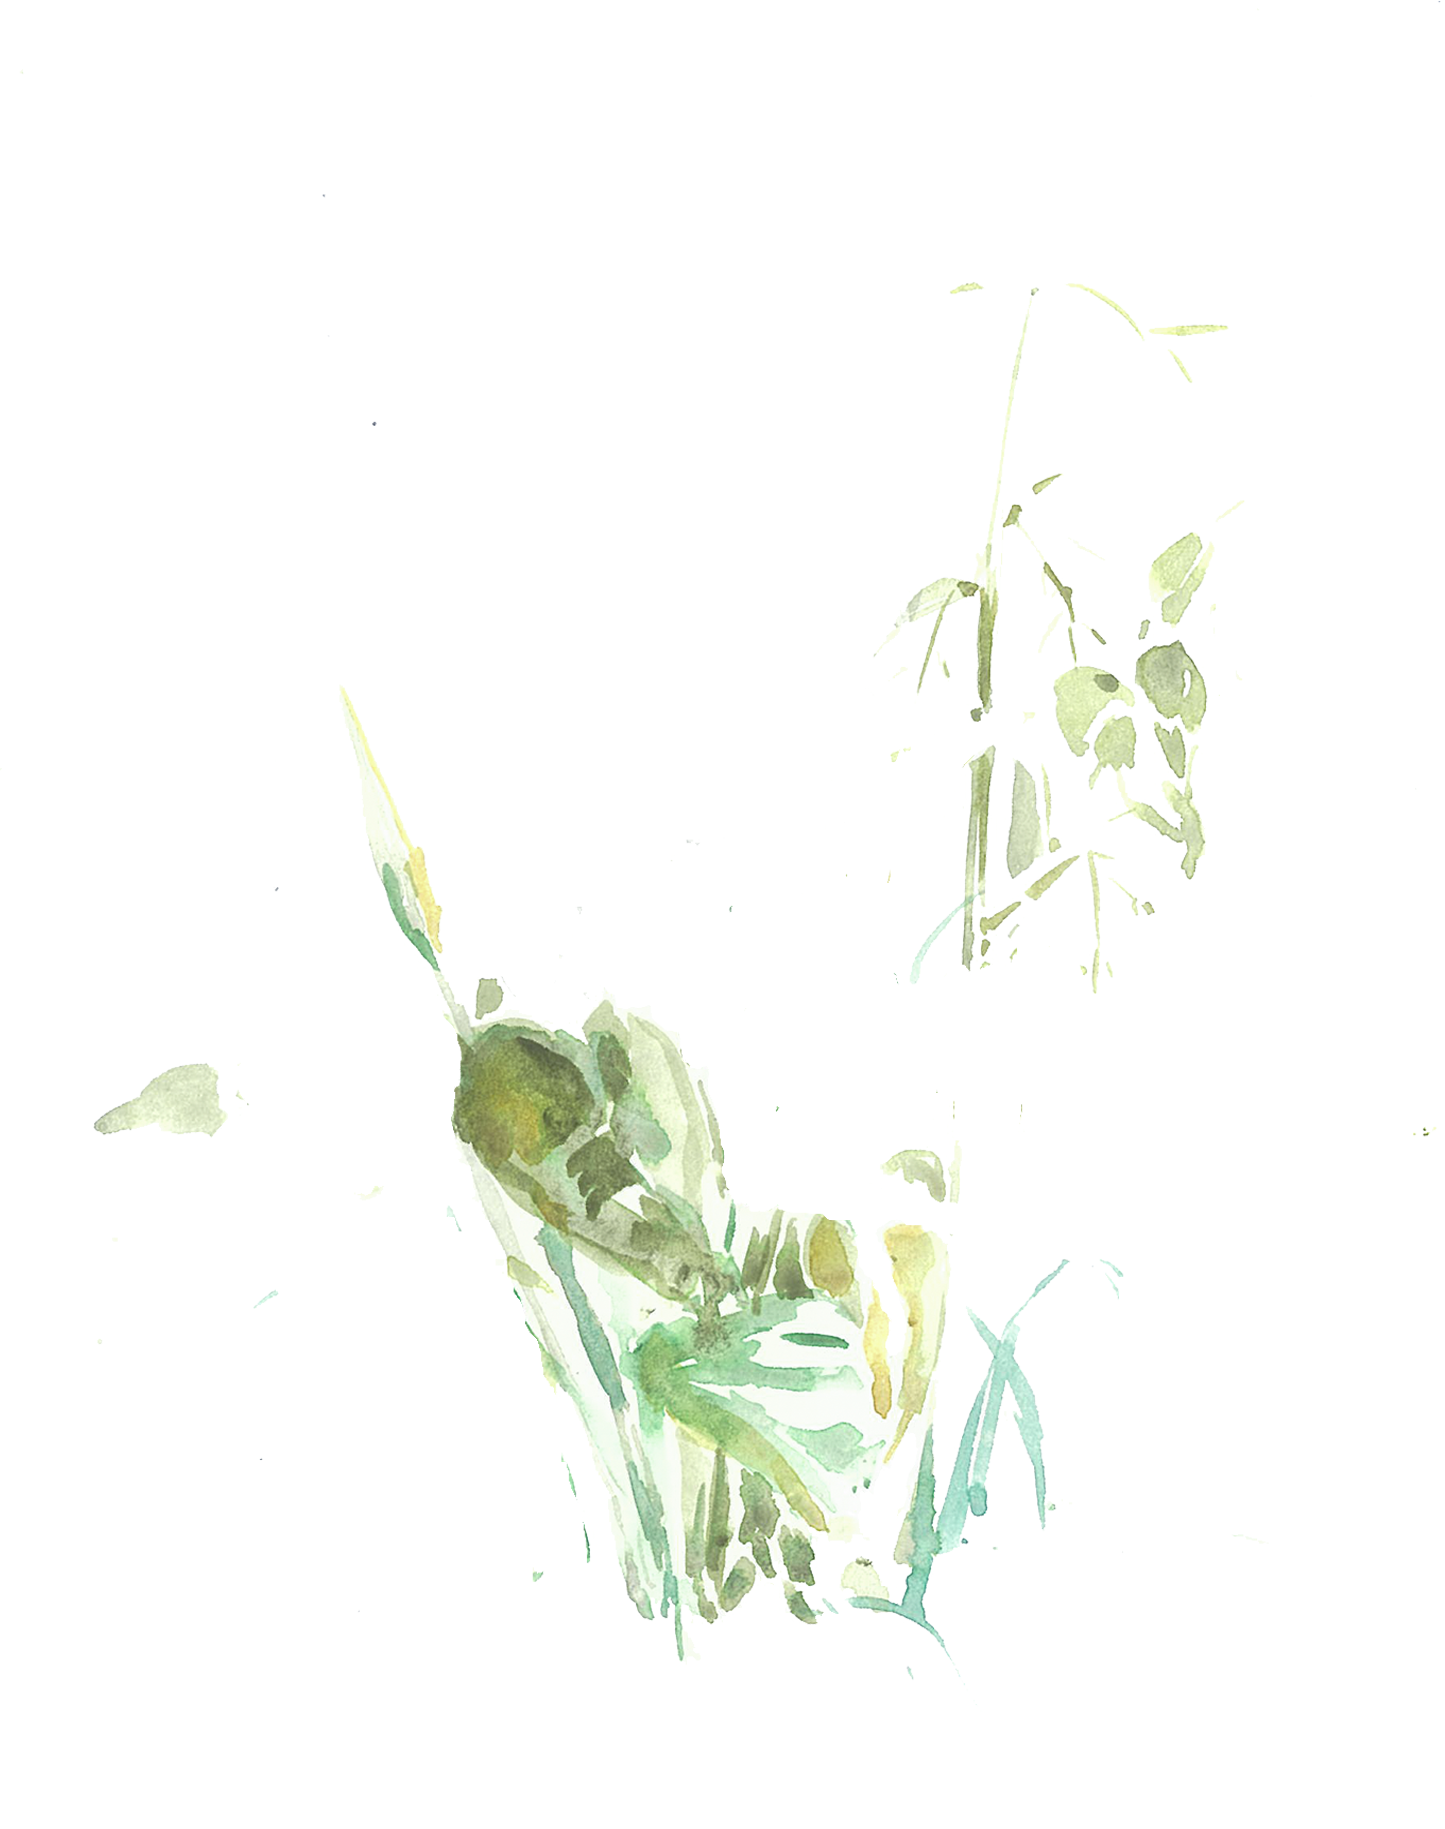
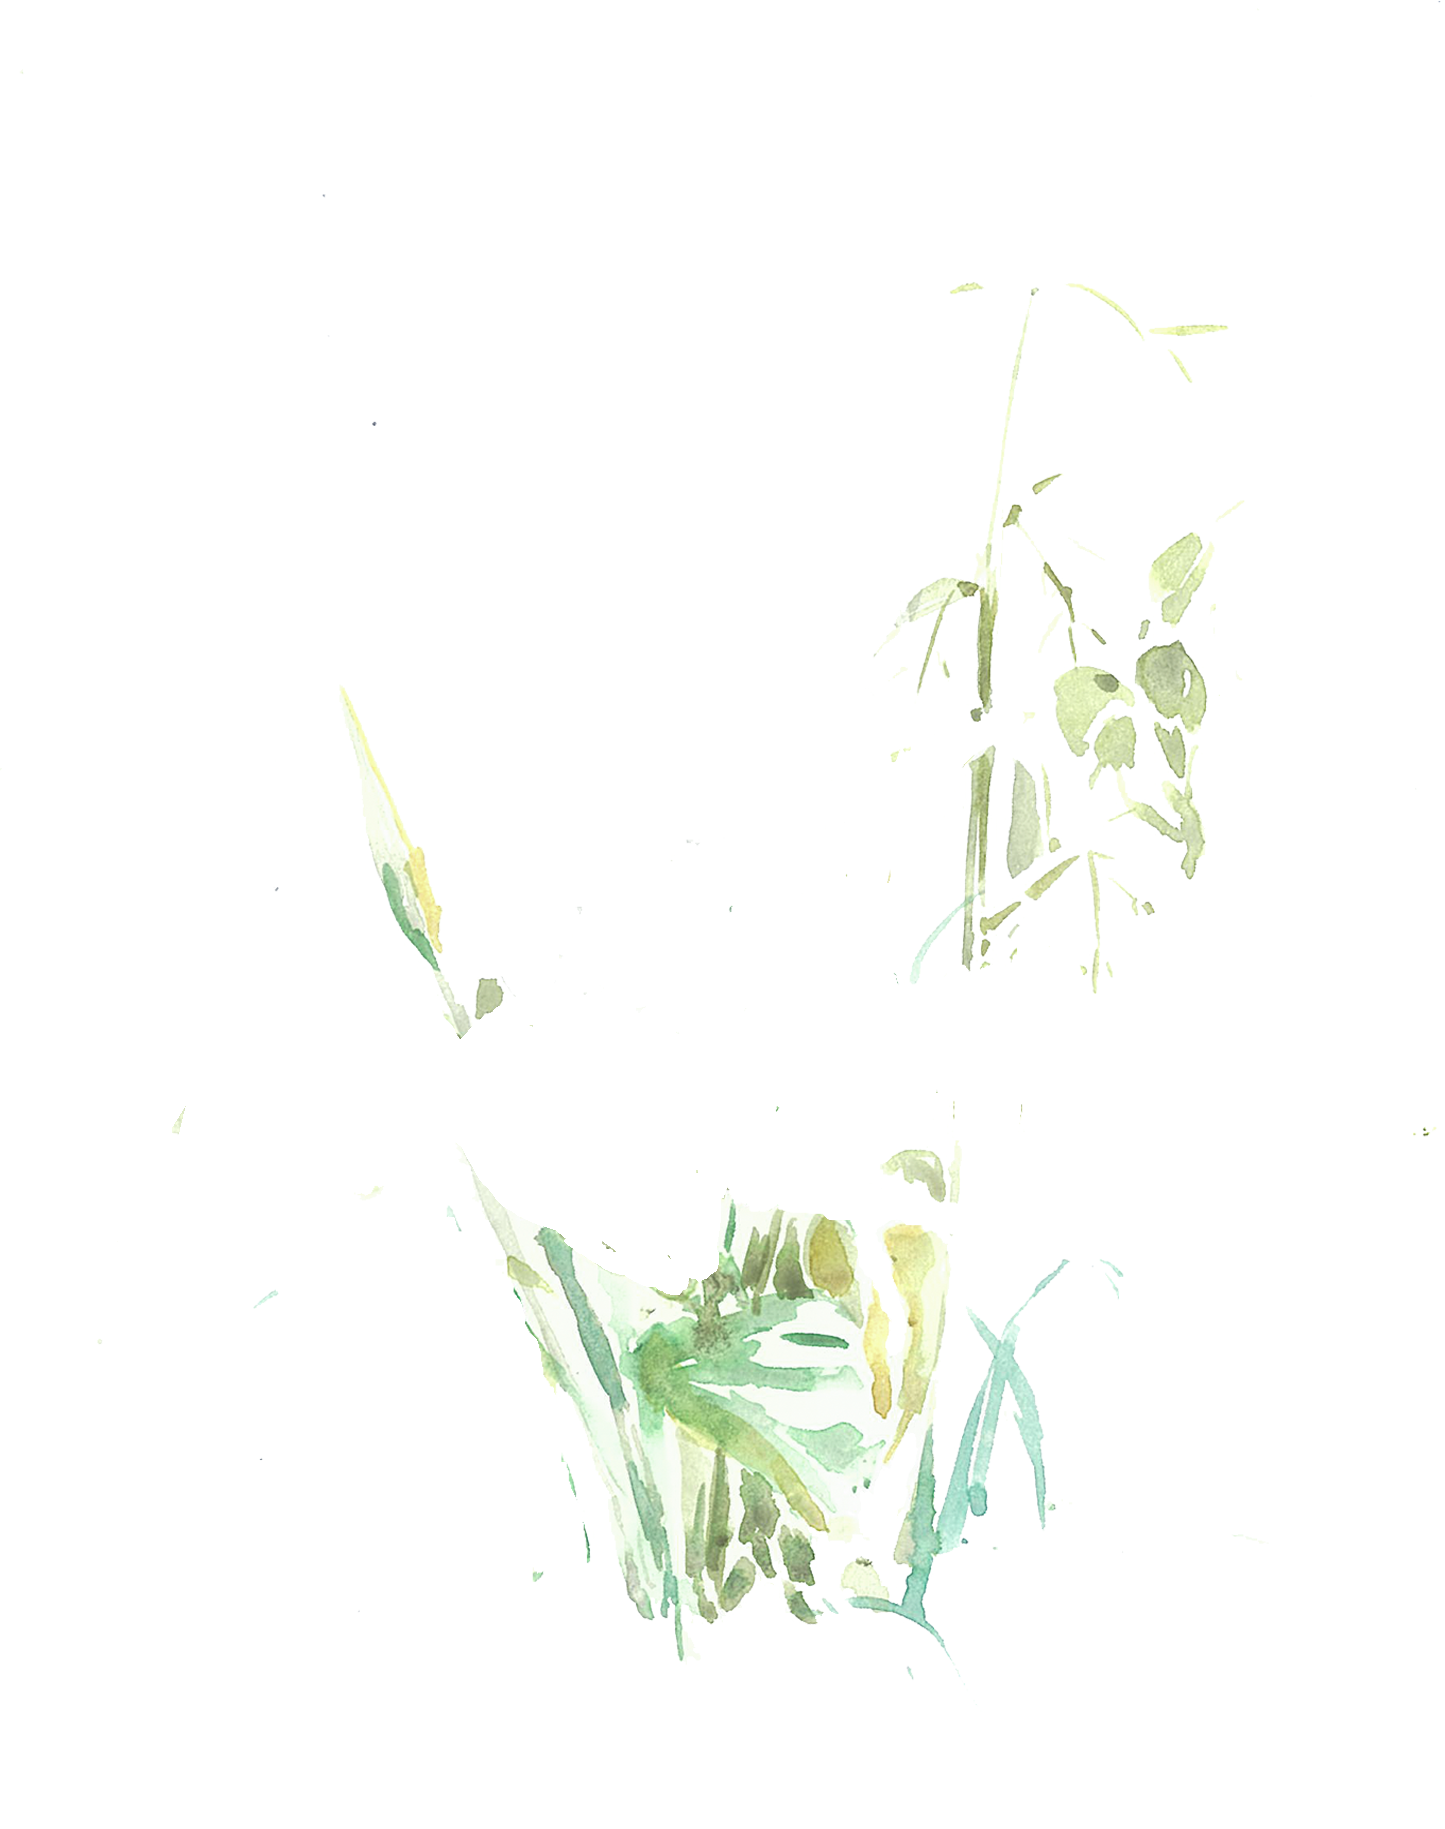
t7

Changed region(s): [[0.3114, 0.5298, 0.4983, 0.7168], [0.0623, 0.561, 0.1557, 0.6233]]

diff --git a/_layout/rain.html b/_layout/rain.html
@@ -4,20 +4,20 @@
   <meta charset="utf-8">
   <meta
     name="viewport"
-    content="width=device-width, initial-scale=1, viewport-fit=cover"
+    content="width=device-width, initial-scale=1"
   >
+
   <title>{{ page.title | default: "Rain" }}</title>
 
   <link
     rel="stylesheet"
-    href="{{ '/assets/interactive/rain/rain.css?v=t6' | relative_url }}"
+    href="{{ '/assets/interactive/rain/rain.css?v=t7' | relative_url }}"
   >
 </head>
 
 <body>
   {{ content }}
-
   <script src="https://unpkg.com/vue@3/dist/vue.global.prod.js"></script>
-  <script src="{{ '/assets/interactive/rain/rain.js?v=t6' | relative_url }}"></script>
+  <script src="{{ '/assets/interactive/rain/rain.js?v=t7' | relative_url }}"></script>
 </body>
 </html>
